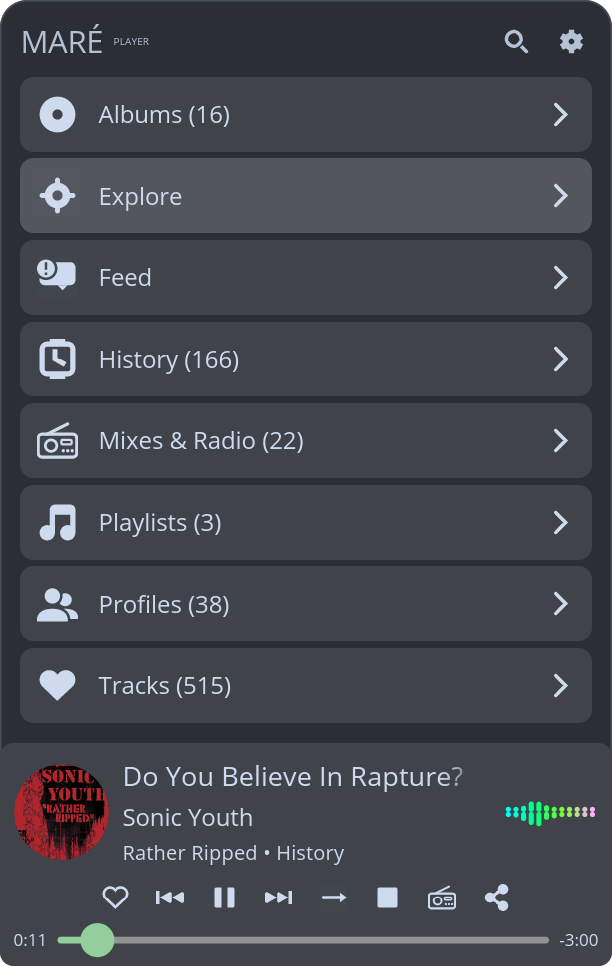
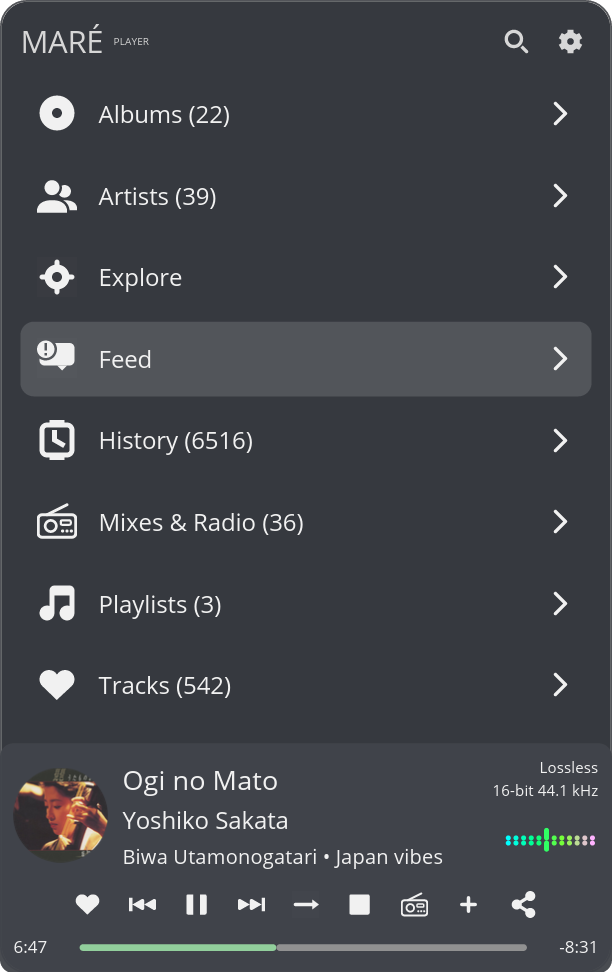
docs: refresh the applet and standalone screenshots
Both now show the Artists menu entry (formerly Profiles) and the current
menu style; the applet's now-playing bar shows the new add-to-playlist
button and the stream's quality. The site's image sizes follow the new
files, and the standalone screenshot's AppStream caption now describes
what it shows (the library menu over a playing music video, not an
album page), in the metainfo and in the standalone packaging's swap.

diff --git a/site/index.html b/site/index.html
@@ -53,11 +53,11 @@
       <div class="hero-art">
         <div class="moon" aria-hidden="true"></div>
         <figure class="shot shot-window">
-          <img src="assets/screenshot_standalone.png" width="1018" height="1401"
+          <img src="assets/screenshot_standalone.png" width="714" height="1227"
                alt="The standalone Maré Player window: library menu above a playing music video.">
         </figure>
         <figure class="shot shot-applet">
-          <img src="assets/screenshot_applet.png" width="612" height="966"
+          <img src="assets/screenshot_applet.png" width="612" height="972"
                alt="The Maré Player panel applet: library menu above a now-playing bar with album art, transport controls and a spectrum visualizer.">
         </figure>
         <div class="spectrum" aria-hidden="true">
